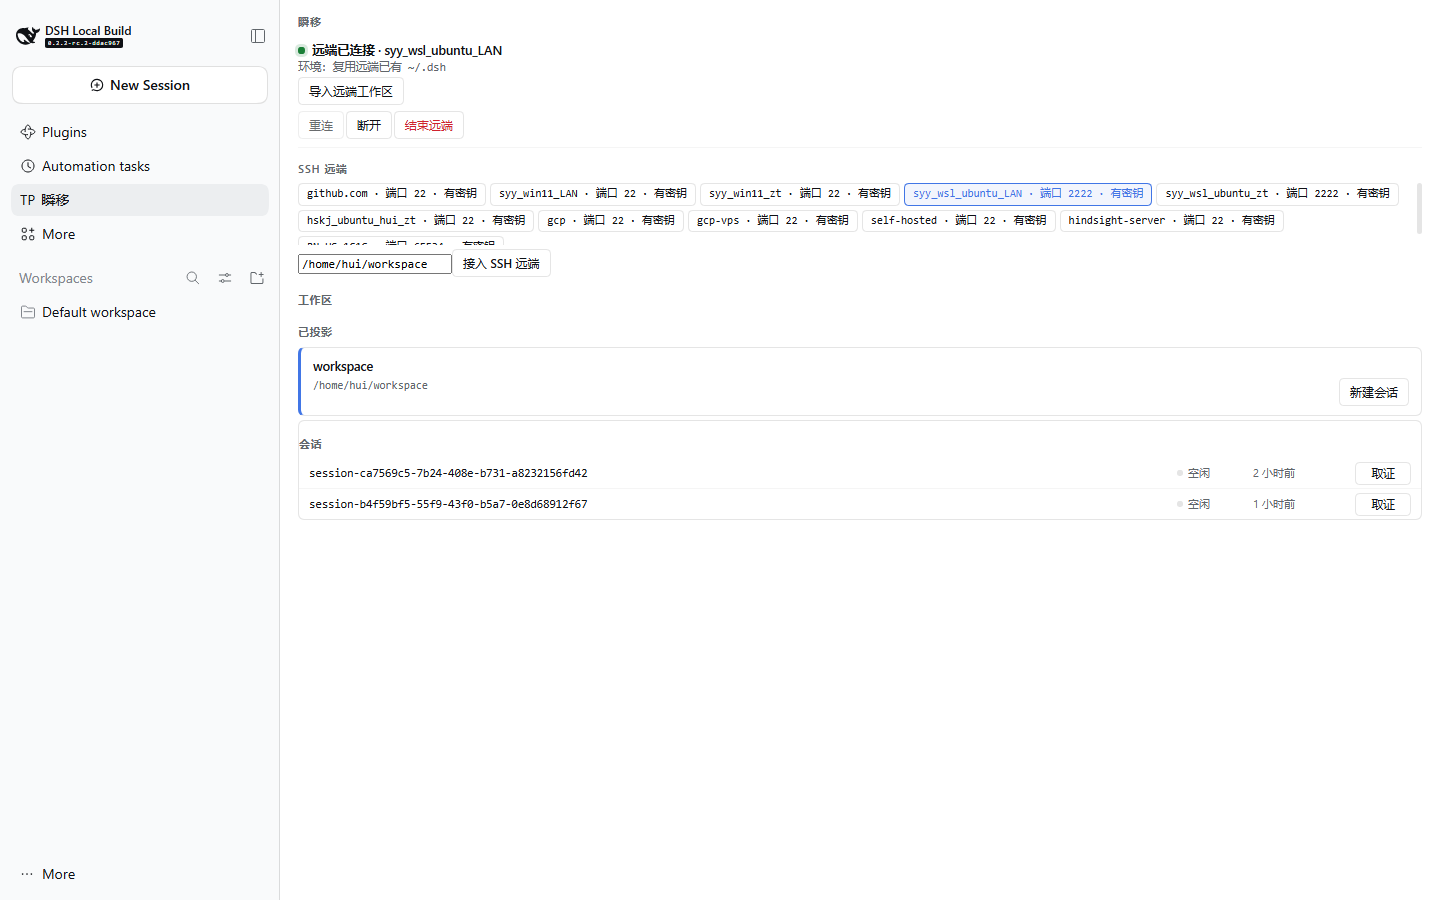
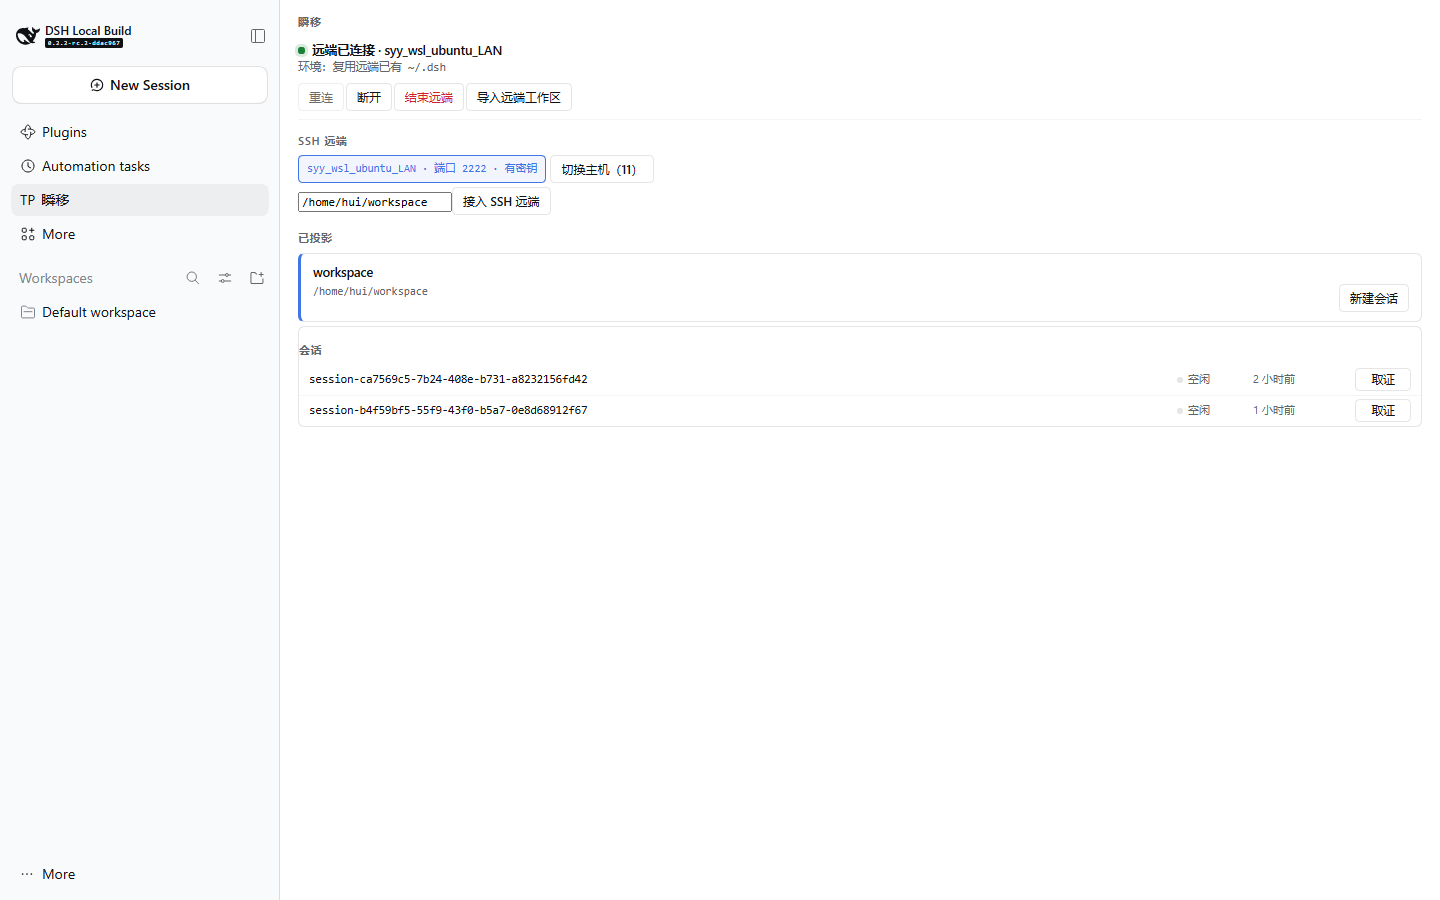
面板 UI 按「IDE 状态栏 + 数据网格」重做，并把上一轮留下的三处结构问题收掉。
- **导入按钮并进动作组**：不再孤立一行，「重连 / 断开 / 结束远端 / 导入远端工作区」同排。
- **主机区折叠**：13 个别名不再占三行；默认只渲染当前选中的那一个 + 「切换主机（N）」按钮，
  展开后仍是完整列表。探针走同一条展开路径（`gateEnsureHosts` 会先点 `ssh-toggle`）。
- **空区块标题隐藏**：没有手工目录时不留下一个空标题（`data-empty` + `::before` 条件）。
- 截图改为**用户视角**（截图前收起主机区），不再是探针展开后的状态。

配色全部走宿主令牌（`--dsw-alias-*`），跟着 DSH 明暗主题切换；区块标题用 `::before` 生成，
只加按钮组那一处 DOM 结构改动。

门禁：client tsc Exit 0、build:client 20 modules / 98483 B；三张截图已重拍。

diff --git a/lib/client.js b/lib/client.js
@@ -578,6 +578,8 @@ function TeleportPanel() {
     const [sshError, setSshError] = (0, react_1.useState)(null);
     const [sshAlias, setSshAlias] = (0, react_1.useState)('');
     const [sshPath, setSshPath] = (0, react_1.useState)('');
+    // 13 个别名平铺会占三行：默认只显示当前选中的，其余折叠在一个按钮后面。
+    const [sshExpanded, setSshExpanded] = (0, react_1.useState)(false);
     // 重试入口要记住「上一次想做什么」：面板上有五种动作，失败框只有一个重试按钮。
     //
     // 存的是**意图**而不是当时那个闭包：用户改了远端路径再点重试，期待的是用新路径重来；
@@ -876,9 +878,13 @@ function TeleportPanel() {
                 ? '还没读到 ~/.ssh/config'
                 : (ssh.problems[0]?.message ?? '~/.ssh/config 里没有可用的主机：写一个 Host 块后刷新'), (0, react_1.createElement)('button', { type: 'button', 'data-teleport': 'ssh-reload', onClick: () => void loadSsh() }, sshError !== null ? '重试读取' : '重新读取'))
         : (0, react_1.createElement)('div', { 'data-teleport': 'ssh-form' }, (0, react_1.createElement)('div', { 'data-teleport': 'ssh-aliases' }, 
-        // 不隐藏任何主机：折叠会把 gcp 这类排后面的主机藏起来（探针与用户都找不到）。
-        // 视觉上由 CSS 的 max-height + 滚动控制。
-        ...sshHosts.map((host) => (0, react_1.createElement)('button', {
+        // 13 个别名平铺会占三行、把下面的内容推走。默认只渲染「当前选中的」那一个；
+        // 展开按钮（ssh-toggle）列出全部，探针也走同一条展开路径。
+        ...(sshExpanded
+            ? sshHosts
+            : sshAlias === ''
+                ? sshHosts.slice(0, 1)
+                : sshHosts.filter((host) => host.alias === sshAlias)).map((host) => (0, react_1.createElement)('button', {
             type: 'button',
             key: host.alias,
             'data-teleport': 'ssh-alias',
@@ -886,7 +892,15 @@ function TeleportPanel() {
             onClick: () => {
                 setSshAlias(host.alias);
             },
-        }, host.alias + ' · 端口 ' + String(host.port) + (host.hasIdentityFile ? ' · 有密钥' : '')))), (0, react_1.createElement)('input', {
+        }, host.alias + ' · 端口 ' + String(host.port) + (host.hasIdentityFile ? ' · 有密钥' : ''))), sshHosts.length > 1
+            ? (0, react_1.createElement)('button', {
+                type: 'button',
+                'data-teleport': 'ssh-toggle',
+                onClick: () => {
+                    setSshExpanded((current) => !current);
+                },
+            }, sshExpanded ? '收起主机' : '切换主机（' + String(sshHosts.length) + '）')
+            : null), (0, react_1.createElement)('input', {
             'data-teleport': 'ssh-path',
             type: 'text',
             value: sshPath,
@@ -943,13 +957,7 @@ function TeleportPanel() {
     return (0, react_1.createElement)('div', { 'data-teleport': 'panel' }, (0, react_1.createElement)('div', { 'data-teleport': 'panel-title' }, '瞬移'), 
     // 只有流程真的在进行时才显示它：`flow` 是「添加工作区」的状态，接入成功后它是 undefined，
     // 常显会让面板同时出现「尚未连接远端」和「远端已连接 · gcp」（截图里就是这么矛盾的）。
-    flow === undefined ? null : (0, react_1.createElement)('div', { 'data-teleport': 'panel-flow' }, summary), flow === undefined ? null : (0, react_1.createElement)('div', { 'data-teleport': 'panel-phase' }, flow_ts_1.FLOW_PHASE_LABELS[flow.phase]), (0, state_ts_1.isTerminal)(state) ? (0, react_1.createElement)('div', { 'data-teleport': 'panel-terminal' }, state.step) : null, (0, react_1.createElement)('div', { 'data-teleport': 'panel-connected', 'data-link': snapshot?.link ?? 'unknown' }, (0, panel_ts_1.linkLine)(snapshot)), (0, react_1.createElement)('div', { 'data-teleport': 'panel-env', 'data-env-policy': snapshot?.envPolicy ?? 'unknown' }, (0, panel_ts_1.envPolicyLine)(snapshot)), (0, react_1.createElement)('div', { 'data-teleport': 'import' }, (0, react_1.createElement)('button', {
-        type: 'button',
-        'data-teleport': 'import-open',
-        disabled: snapshot?.connected !== true || busy !== null,
-        title: snapshot?.connected === true ? '列出远端已有的工作区，勾选后投影到本地侧栏' : '尚未连接远端',
-        onClick: () => void onLoadImportable(),
-    }, busy === 'import-list' ? '读取中…' : '导入远端工作区'), importable === null
+    flow === undefined ? null : (0, react_1.createElement)('div', { 'data-teleport': 'panel-flow' }, summary), flow === undefined ? null : (0, react_1.createElement)('div', { 'data-teleport': 'panel-phase' }, flow_ts_1.FLOW_PHASE_LABELS[flow.phase]), (0, state_ts_1.isTerminal)(state) ? (0, react_1.createElement)('div', { 'data-teleport': 'panel-terminal' }, state.step) : null, (0, react_1.createElement)('div', { 'data-teleport': 'panel-connected', 'data-link': snapshot?.link ?? 'unknown' }, (0, panel_ts_1.linkLine)(snapshot)), (0, react_1.createElement)('div', { 'data-teleport': 'panel-env', 'data-env-policy': snapshot?.envPolicy ?? 'unknown' }, (0, panel_ts_1.envPolicyLine)(snapshot)), (0, react_1.createElement)('div', { 'data-teleport': 'import' }, importable === null
         ? null
         : (0, react_1.createElement)('div', { 'data-teleport': 'import-list' }, importable.length === 0
             ? (0, react_1.createElement)('div', { 'data-teleport': 'import-empty' }, '远端没有其它可导入的工作区')
@@ -985,7 +993,13 @@ function TeleportPanel() {
         disabled: busy !== null,
         title: '把远端 dsh 真的收掉（「断开」只断传输、进程留着温热）',
         onClick: () => void onStopRemote(),
-    }, busy === 'stop-remote' ? '结束中…' : '结束远端')), sshBox, (0, react_1.createElement)('div', { 'data-teleport': 'panel-workspaces' }, 
+    }, busy === 'stop-remote' ? '结束中…' : '结束远端'), (0, react_1.createElement)('button', {
+        type: 'button',
+        'data-teleport': 'import-open',
+        disabled: snapshot?.connected !== true || busy !== null,
+        title: snapshot?.connected === true ? '列出远端已有的工作区，勾选后投影到本地侧栏' : '尚未连接远端',
+        onClick: () => void onLoadImportable(),
+    }, busy === 'import-list' ? '读取中…' : '导入远端工作区')), sshBox, (0, react_1.createElement)('div', { 'data-teleport': 'panel-workspaces', 'data-empty': String(addRows.length === 0) }, 
     // 只有「既没有手工目录、也没有投影工作区」时才显示空态：
     // 否则会出现「明明侧栏里有工作区，这里却说还没有添加目录」的自相矛盾。
     ...(addRows.length === 0 && projectedRows.length === 0
@@ -1860,6 +1874,8 @@ exports.PANEL_CSS = `
   margin: 16px 0 6px;
 }
 [data-teleport='panel'] [data-teleport='panel-workspaces']::before { content: '工作区'; }
+/* 没有手工目录时，别留一个空标题在页面上。 */
+[data-teleport='panel'] [data-teleport='panel-workspaces'][data-empty='true']::before { display: none; }
 [data-teleport='panel'] [data-teleport='panel-projected']::before { content: '已投影'; }
 [data-teleport='panel'] [data-teleport='panel-sessions']::before { content: '会话'; }
 

diff --git a/lib/client-raw/client/components.js b/lib/client-raw/client/components.js
@@ -352,6 +352,8 @@ function TeleportPanel() {
     const [sshError, setSshError] = (0, react_1.useState)(null);
     const [sshAlias, setSshAlias] = (0, react_1.useState)('');
     const [sshPath, setSshPath] = (0, react_1.useState)('');
+    // 13 个别名平铺会占三行：默认只显示当前选中的，其余折叠在一个按钮后面。
+    const [sshExpanded, setSshExpanded] = (0, react_1.useState)(false);
     // 重试入口要记住「上一次想做什么」：面板上有五种动作，失败框只有一个重试按钮。
     //
     // 存的是**意图**而不是当时那个闭包：用户改了远端路径再点重试，期待的是用新路径重来；
@@ -650,9 +652,13 @@ function TeleportPanel() {
                 ? '还没读到 ~/.ssh/config'
                 : (ssh.problems[0]?.message ?? '~/.ssh/config 里没有可用的主机：写一个 Host 块后刷新'), (0, react_1.createElement)('button', { type: 'button', 'data-teleport': 'ssh-reload', onClick: () => void loadSsh() }, sshError !== null ? '重试读取' : '重新读取'))
         : (0, react_1.createElement)('div', { 'data-teleport': 'ssh-form' }, (0, react_1.createElement)('div', { 'data-teleport': 'ssh-aliases' }, 
-        // 不隐藏任何主机：折叠会把 gcp 这类排后面的主机藏起来（探针与用户都找不到）。
-        // 视觉上由 CSS 的 max-height + 滚动控制。
-        ...sshHosts.map((host) => (0, react_1.createElement)('button', {
+        // 13 个别名平铺会占三行、把下面的内容推走。默认只渲染「当前选中的」那一个；
+        // 展开按钮（ssh-toggle）列出全部，探针也走同一条展开路径。
+        ...(sshExpanded
+            ? sshHosts
+            : sshAlias === ''
+                ? sshHosts.slice(0, 1)
+                : sshHosts.filter((host) => host.alias === sshAlias)).map((host) => (0, react_1.createElement)('button', {
             type: 'button',
             key: host.alias,
             'data-teleport': 'ssh-alias',
@@ -660,7 +666,15 @@ function TeleportPanel() {
             onClick: () => {
                 setSshAlias(host.alias);
             },
-        }, host.alias + ' · 端口 ' + String(host.port) + (host.hasIdentityFile ? ' · 有密钥' : '')))), (0, react_1.createElement)('input', {
+        }, host.alias + ' · 端口 ' + String(host.port) + (host.hasIdentityFile ? ' · 有密钥' : ''))), sshHosts.length > 1
+            ? (0, react_1.createElement)('button', {
+                type: 'button',
+                'data-teleport': 'ssh-toggle',
+                onClick: () => {
+                    setSshExpanded((current) => !current);
+                },
+            }, sshExpanded ? '收起主机' : '切换主机（' + String(sshHosts.length) + '）')
+            : null), (0, react_1.createElement)('input', {
             'data-teleport': 'ssh-path',
             type: 'text',
             value: sshPath,
@@ -717,13 +731,7 @@ function TeleportPanel() {
     return (0, react_1.createElement)('div', { 'data-teleport': 'panel' }, (0, react_1.createElement)('div', { 'data-teleport': 'panel-title' }, '瞬移'), 
     // 只有流程真的在进行时才显示它：`flow` 是「添加工作区」的状态，接入成功后它是 undefined，
     // 常显会让面板同时出现「尚未连接远端」和「远端已连接 · gcp」（截图里就是这么矛盾的）。
-    flow === undefined ? null : (0, react_1.createElement)('div', { 'data-teleport': 'panel-flow' }, summary), flow === undefined ? null : (0, react_1.createElement)('div', { 'data-teleport': 'panel-phase' }, flow_ts_1.FLOW_PHASE_LABELS[flow.phase]), (0, state_ts_1.isTerminal)(state) ? (0, react_1.createElement)('div', { 'data-teleport': 'panel-terminal' }, state.step) : null, (0, react_1.createElement)('div', { 'data-teleport': 'panel-connected', 'data-link': snapshot?.link ?? 'unknown' }, (0, panel_ts_1.linkLine)(snapshot)), (0, react_1.createElement)('div', { 'data-teleport': 'panel-env', 'data-env-policy': snapshot?.envPolicy ?? 'unknown' }, (0, panel_ts_1.envPolicyLine)(snapshot)), (0, react_1.createElement)('div', { 'data-teleport': 'import' }, (0, react_1.createElement)('button', {
-        type: 'button',
-        'data-teleport': 'import-open',
-        disabled: snapshot?.connected !== true || busy !== null,
-        title: snapshot?.connected === true ? '列出远端已有的工作区，勾选后投影到本地侧栏' : '尚未连接远端',
-        onClick: () => void onLoadImportable(),
-    }, busy === 'import-list' ? '读取中…' : '导入远端工作区'), importable === null
+    flow === undefined ? null : (0, react_1.createElement)('div', { 'data-teleport': 'panel-flow' }, summary), flow === undefined ? null : (0, react_1.createElement)('div', { 'data-teleport': 'panel-phase' }, flow_ts_1.FLOW_PHASE_LABELS[flow.phase]), (0, state_ts_1.isTerminal)(state) ? (0, react_1.createElement)('div', { 'data-teleport': 'panel-terminal' }, state.step) : null, (0, react_1.createElement)('div', { 'data-teleport': 'panel-connected', 'data-link': snapshot?.link ?? 'unknown' }, (0, panel_ts_1.linkLine)(snapshot)), (0, react_1.createElement)('div', { 'data-teleport': 'panel-env', 'data-env-policy': snapshot?.envPolicy ?? 'unknown' }, (0, panel_ts_1.envPolicyLine)(snapshot)), (0, react_1.createElement)('div', { 'data-teleport': 'import' }, importable === null
         ? null
         : (0, react_1.createElement)('div', { 'data-teleport': 'import-list' }, importable.length === 0
             ? (0, react_1.createElement)('div', { 'data-teleport': 'import-empty' }, '远端没有其它可导入的工作区')
@@ -759,7 +767,13 @@ function TeleportPanel() {
         disabled: busy !== null,
         title: '把远端 dsh 真的收掉（「断开」只断传输、进程留着温热）',
         onClick: () => void onStopRemote(),
-    }, busy === 'stop-remote' ? '结束中…' : '结束远端')), sshBox, (0, react_1.createElement)('div', { 'data-teleport': 'panel-workspaces' }, 
+    }, busy === 'stop-remote' ? '结束中…' : '结束远端'), (0, react_1.createElement)('button', {
+        type: 'button',
+        'data-teleport': 'import-open',
+        disabled: snapshot?.connected !== true || busy !== null,
+        title: snapshot?.connected === true ? '列出远端已有的工作区，勾选后投影到本地侧栏' : '尚未连接远端',
+        onClick: () => void onLoadImportable(),
+    }, busy === 'import-list' ? '读取中…' : '导入远端工作区')), sshBox, (0, react_1.createElement)('div', { 'data-teleport': 'panel-workspaces', 'data-empty': String(addRows.length === 0) }, 
     // 只有「既没有手工目录、也没有投影工作区」时才显示空态：
     // 否则会出现「明明侧栏里有工作区，这里却说还没有添加目录」的自相矛盾。
     ...(addRows.length === 0 && projectedRows.length === 0

diff --git a/src/client/components.ts b/src/client/components.ts
@@ -559,6 +559,8 @@ export function TeleportPanel(): unknown {
   const [sshError, setSshError] = useState<string | null>(null)
   const [sshAlias, setSshAlias] = useState<string>('')
   const [sshPath, setSshPath] = useState<string>('')
+  // 13 个别名平铺会占三行：默认只显示当前选中的，其余折叠在一个按钮后面。
+  const [sshExpanded, setSshExpanded] = useState(false)
   // 重试入口要记住「上一次想做什么」：面板上有五种动作，失败框只有一个重试按钮。
   //
   // 存的是**意图**而不是当时那个闭包：用户改了远端路径再点重试，期待的是用新路径重来；
@@ -884,9 +886,14 @@ export function TeleportPanel(): unknown {
           h(
             'div',
             { 'data-teleport': 'ssh-aliases' },
-            // 不隐藏任何主机：折叠会把 gcp 这类排后面的主机藏起来（探针与用户都找不到）。
-            // 视觉上由 CSS 的 max-height + 滚动控制。
-            ...sshHosts.map((host) =>
+            // 13 个别名平铺会占三行、把下面的内容推走。默认只渲染「当前选中的」那一个；
+            // 展开按钮（ssh-toggle）列出全部，探针也走同一条展开路径。
+            ...(sshExpanded
+              ? sshHosts
+              : sshAlias === ''
+                ? sshHosts.slice(0, 1)
+                : sshHosts.filter((host) => host.alias === sshAlias)
+            ).map((host) =>
               h(
                 'button',
                 {
@@ -901,6 +908,19 @@ export function TeleportPanel(): unknown {
                 host.alias + ' · 端口 ' + String(host.port) + (host.hasIdentityFile ? ' · 有密钥' : ''),
               ),
             ),
+            sshHosts.length > 1
+              ? h(
+                  'button',
+                  {
+                    type: 'button',
+                    'data-teleport': 'ssh-toggle',
+                    onClick: () => {
+                      setSshExpanded((current) => !current)
+                    },
+                  },
+                  sshExpanded ? '收起主机' : '切换主机（' + String(sshHosts.length) + '）',
+                )
+              : null,
           ),
           h('input', {
             'data-teleport': 'ssh-path',
@@ -1038,17 +1058,6 @@ export function TeleportPanel(): unknown {
     h(
       'div',
       { 'data-teleport': 'import' },
-      h(
-        'button',
-        {
-          type: 'button',
-          'data-teleport': 'import-open',
-          disabled: snapshot?.connected !== true || busy !== null,
-          title: snapshot?.connected === true ? '列出远端已有的工作区，勾选后投影到本地侧栏' : '尚未连接远端',
-          onClick: () => void onLoadImportable(),
-        },
-        busy === 'import-list' ? '读取中…' : '导入远端工作区',
-      ),
       importable === null
         ? null
         : h(
@@ -1125,11 +1134,22 @@ export function TeleportPanel(): unknown {
         },
         busy === 'stop-remote' ? '结束中…' : '结束远端',
       ),
+      h(
+        'button',
+        {
+          type: 'button',
+          'data-teleport': 'import-open',
+          disabled: snapshot?.connected !== true || busy !== null,
+          title: snapshot?.connected === true ? '列出远端已有的工作区，勾选后投影到本地侧栏' : '尚未连接远端',
+          onClick: () => void onLoadImportable(),
+        },
+        busy === 'import-list' ? '读取中…' : '导入远端工作区',
+      ),
     ),
     sshBox,
     h(
       'div',
-      { 'data-teleport': 'panel-workspaces' },
+      { 'data-teleport': 'panel-workspaces', 'data-empty': String(addRows.length === 0) },
       // 只有「既没有手工目录、也没有投影工作区」时才显示空态：
       // 否则会出现「明明侧栏里有工作区，这里却说还没有添加目录」的自相矛盾。
       ...(addRows.length === 0 && projectedRows.length === 0

diff --git a/src/client/styles.ts b/src/client/styles.ts
@@ -161,6 +161,8 @@ export const PANEL_CSS = `
   margin: 16px 0 6px;
 }
 [data-teleport='panel'] [data-teleport='panel-workspaces']::before { content: '工作区'; }
+/* 没有手工目录时，别留一个空标题在页面上。 */
+[data-teleport='panel'] [data-teleport='panel-workspaces'][data-empty='true']::before { display: none; }
 [data-teleport='panel'] [data-teleport='panel-projected']::before { content: '已投影'; }
 [data-teleport='panel'] [data-teleport='panel-sessions']::before { content: '会话'; }
 

diff --git a/lib/client-raw/client/styles.js b/lib/client-raw/client/styles.js
@@ -162,6 +162,8 @@ exports.PANEL_CSS = `
   margin: 16px 0 6px;
 }
 [data-teleport='panel'] [data-teleport='panel-workspaces']::before { content: '工作区'; }
+/* 没有手工目录时，别留一个空标题在页面上。 */
+[data-teleport='panel'] [data-teleport='panel-workspaces'][data-empty='true']::before { display: none; }
 [data-teleport='panel'] [data-teleport='panel-projected']::before { content: '已投影'; }
 [data-teleport='panel'] [data-teleport='panel-sessions']::before { content: '会话'; }
 
